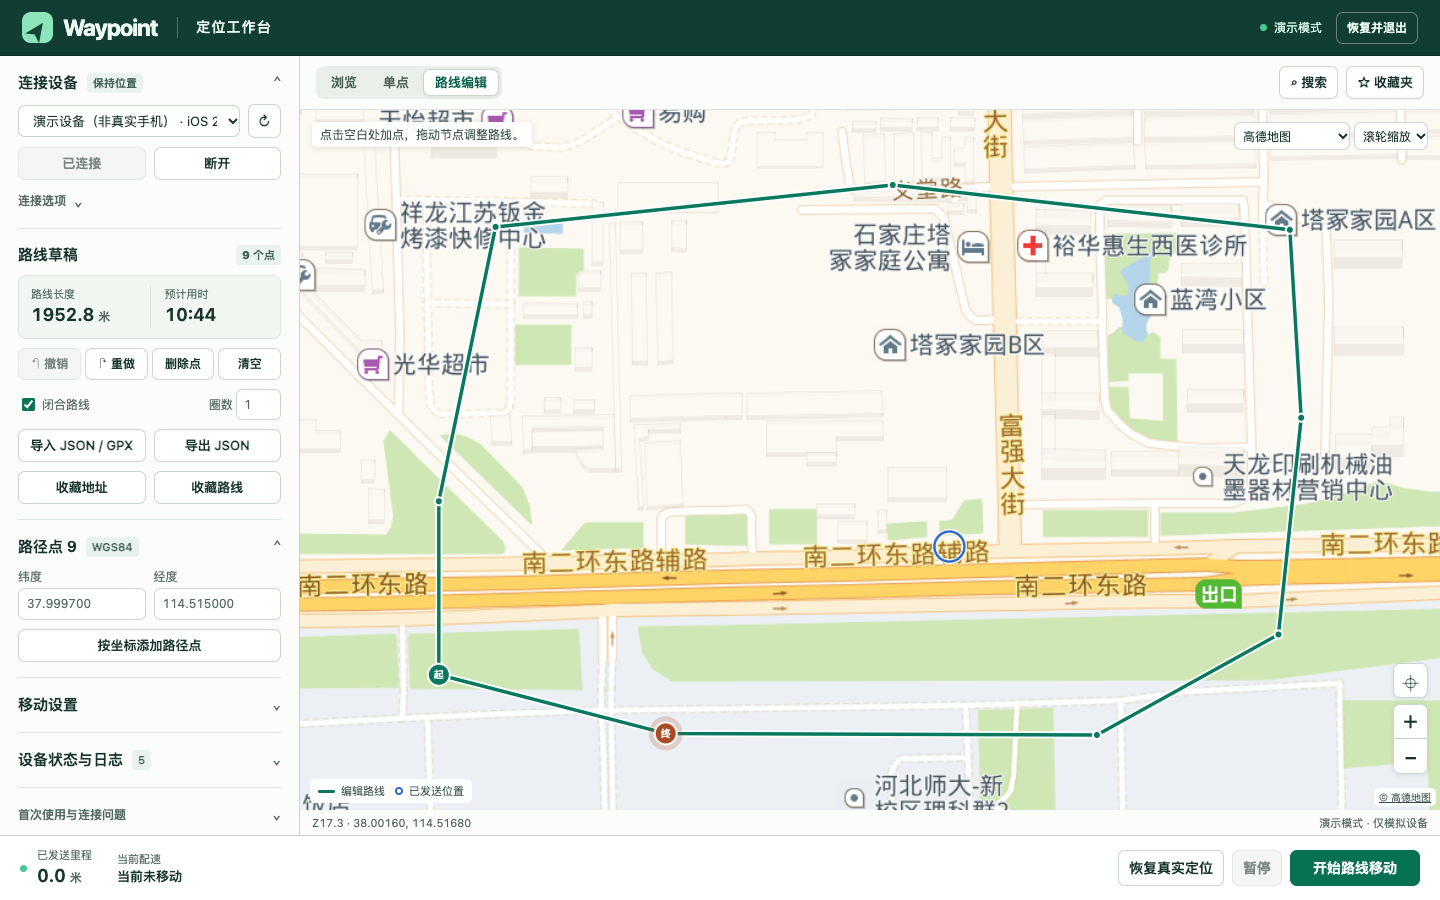
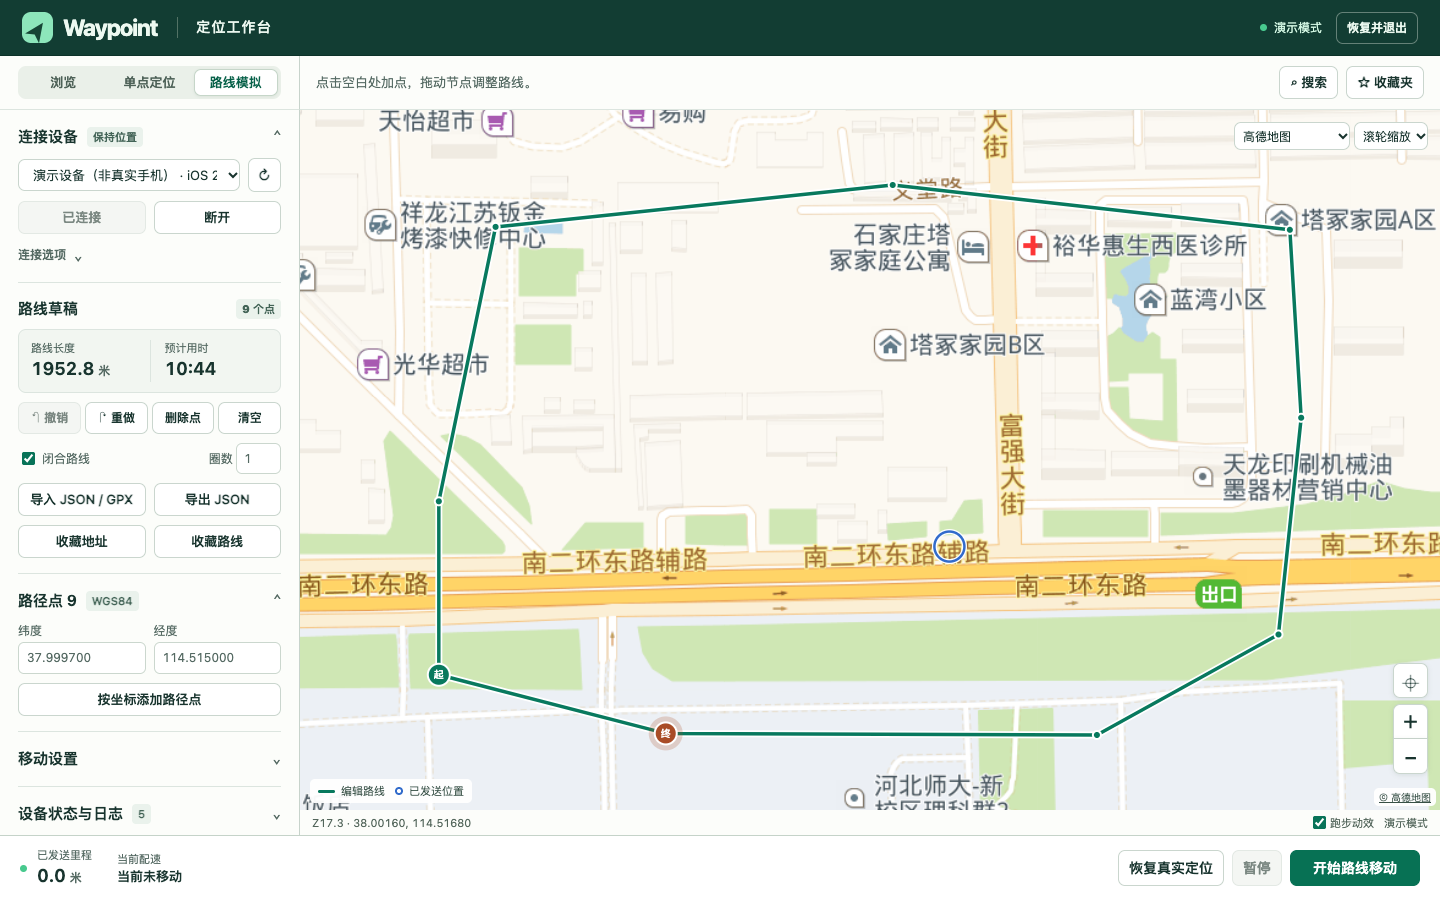
固定左侧模式切换，增加演示路线跑步动效

diff --git a/web/style.css b/web/style.css
@@ -38,8 +38,12 @@ small,.micro,.hint { color:var(--muted); font-size:12px }
 #connection-pill::before,.status-dot { content:''; display:inline-block; width:7px; height:7px; border-radius:50%; background:#afbab2 }
 #connection-pill.connected::before,.status-dot.ok { background:#48c98e }
 .status-dot.error { background:#c65834 }
-main { min-height:0; display:grid; grid-template-columns:300px minmax(0,1fr) }
-.sidebar { min-height:0; overflow:auto; overscroll-behavior:contain; padding:0 18px 12px; background:var(--paper); border-right:1px solid #c7d3cb }
+main { min-height:0; display:grid; grid-template-columns:300px minmax(0,1fr); grid-template-rows:auto minmax(0,1fr); grid-template-areas:"modes tools" "sidebar map" }
+.mode-bar { grid-area:modes; display:flex; align-items:center; padding:8px 18px; background:var(--paper); border-right:1px solid #c7d3cb; border-bottom:1px solid var(--line) }
+.mode-bar .modes { width:100% }
+.modes button { flex:1 }
+#edit-hint { color:var(--muted); font-size:13px }
+.sidebar { grid-area:sidebar; min-height:0; overflow:auto; overscroll-behavior:contain; padding:0 18px 12px; background:var(--paper); border-right:1px solid #c7d3cb }
 .section,.help { padding:15px 0; border-bottom:1px solid var(--line) }
 .section > * + *, .help ol { margin-top:9px }
 summary { cursor:pointer; display:flex; align-items:center; gap:6px; list-style:none; min-height:24px }
@@ -70,8 +74,8 @@ summary small, .count,#state-label { margin-left:3px; font-size:11px; font-weigh
 pre { white-space:pre-wrap; max-height:170px; overflow:auto; font-size:11px }
 .help { border:0 }
 .help ol { padding-left:16px }
-.workspace { min-width:0; min-height:0; display:grid; grid-template-rows:auto minmax(0,1fr) 25px; background:var(--paper) }
-.map-toolbar { min-height:54px; display:flex; align-items:center; justify-content:space-between; gap:6px; padding:8px 16px; border-bottom:1px solid var(--line) }
+.workspace { grid-area:map; min-width:0; min-height:0; display:grid; grid-template-rows:minmax(0,1fr) 25px; background:var(--paper) }
+.map-toolbar { grid-area:tools; background:var(--paper); min-height:54px; display:flex; align-items:center; justify-content:space-between; gap:6px; padding:8px 16px; border-bottom:1px solid var(--line) }
 .segmented { display:inline-flex; padding:3px; gap:2px; border-radius:8px; background:#eaf0e9 }
 .segmented button { border:1px solid transparent; background:transparent; min-height:27px; padding:3px 11px; font-size:13px; color:#4d6157 }
 .segmented button.active { background:white; border-color:#c6d6c9; color:#066048; box-shadow:0 1px 3px #18362a12 }
@@ -82,9 +86,12 @@ pre { white-space:pre-wrap; max-height:170px; overflow:auto; font-size:11px }
 #map[data-mode=point],#map[data-mode=route] { cursor:crosshair }
 #map.over-point { cursor:grab }
 #map.dragging { cursor:grabbing }
-.hint-chip,.map-settings,.navigation,.map-legend,.attribution,#map-loading { position:absolute }
-.hint-chip,.map-legend,.attribution,#map-loading { background:#fffffff2; color:#375046; font-size:12px; border-radius:5px; padding:4px 8px }
-.hint-chip { left:12px; top:12px; pointer-events:none; box-shadow:0 1px 6px #1a332a22 }
+.map-settings,.navigation,.map-legend,.attribution,#map-loading { position:absolute }
+.map-legend,.attribution,#map-loading { background:#fffffff2; color:#375046; font-size:12px; border-radius:5px; padding:4px 8px }
+#runner-marker { position:absolute; left:0; top:0; width:0; height:0; pointer-events:none }
+#runner-marker i { position:absolute; left:-4px; top:-4px; width:8px; height:8px; border-radius:50%; background:#1556b6; box-shadow:0 0 0 1.5px white }
+#runner-option { margin-left:auto; margin-right:10px; display:inline-flex; gap:4px; align-items:center; cursor:pointer }
+#runner-toggle { margin:0 }
 .map-settings { right:12px; top:12px; display:flex; align-items:center; gap:4px }
 .map-settings select { font-size:12px; padding:4px; min-height:28px; max-width:125px }
 #map-loading { right:12px; top:49px; font-size:11px }
@@ -123,21 +130,24 @@ pre { white-space:pre-wrap; max-height:170px; overflow:auto; font-size:11px }
 .favorite-load { color:var(--teal) }
 .pace-fields input { max-width:60px }
 #toast { position:fixed; bottom:75px; left:50%; transform:translateX(-50%); max-width:min(540px,90vw); padding:8px 14px; color:white; background:#193f33; border-radius:7px; z-index:5; pointer-events:none }
-@media(max-width:1080px) { main { grid-template-columns:272px minmax(0,1fr) } .sidebar { padding-inline:12px } .hint-chip { max-width:52% } }
+@media(max-width:1080px) { main { grid-template-columns:272px minmax(0,1fr) } .sidebar { padding-inline:12px } }
 @media(max-width:760px) {
   body { grid-template-rows:44px minmax(0,1fr) auto }
   .topbar { padding:0 10px; gap:8px } .brand { font-size:19px } .brand-icon { width:25px; height:25px }
   .topbar h1 { font-size:12px; padding-left:8px } .top-actions { gap:7px }
-  main { display:flex; flex-direction:column } .workspace { order:-1; flex:1; grid-template-rows:auto minmax(0,1fr) 21px }
-  .sidebar { height:29%; border:0; border-top:1px solid var(--line); padding-inline:12px }
+  main { position:relative; grid-template-columns:minmax(0,1fr) auto; grid-template-rows:auto minmax(0,1fr) 29%; grid-template-areas:"modes tools" "map map" "sidebar sidebar" }
+  .workspace { grid-template-rows:minmax(0,1fr) 24px }
+  .mode-bar { padding:4px 6px; border-right:0 } .mode-bar .modes { width:auto }
+  .sidebar { border:0; border-top:1px solid var(--line); padding-inline:12px }
   .section { padding:9px 0 } .map-toolbar { padding:4px 8px; min-height:41px }
   .tools { gap:4px } .tools button,.segmented button { padding-inline:7px; font-size:12px }
-  .hint-chip { top:45px; left:7px; max-width:80%; font-size:11px }
+  #edit-hint { position:absolute; left:7px; top:84px; z-index:1; pointer-events:none; background:#fffffff2; padding:2px 6px; border-radius:4px; font-size:11px }
+  main:has(.popup:not([hidden]), .favorites-panel:not([hidden])) #edit-hint { visibility:hidden }
   .map-settings { left:7px; right:auto; top:7px }
   #map-loading { top:auto; right:auto; left:7px; bottom:34px }
   .transport { padding:6px 8px; gap:6px; min-height:48px } .pace-readout { display:none }
   .play-actions { gap:4px } .play-actions button { font-size:12px; padding:4px 7px; min-height:31px }
   .play-actions .primary { min-width:0 } .play-status { gap:5px } .play-status strong { font-size:14px }
 }
-@media (max-height:530px) and (max-width:760px) { .sidebar { height:23% } .hint-chip { display:none } }
+@media (max-height:530px) and (max-width:760px) { main { grid-template-rows:auto minmax(0,1fr) 23% } #edit-hint { display:none } }
 @media (prefers-reduced-motion:reduce) { * { transition:none!important } }

diff --git a/web/app.js b/web/app.js
@@ -1,7 +1,7 @@
 'use strict';
 import {fromMapCoordinate} from './map-coordinates.mjs';
 import {EditorMap, History} from './editor-map.mjs';
-import {normaliseMotion, formatPace} from './motion.mjs';
+import {normaliseMotion, formatPace, RunningMarker} from './motion.mjs';
 const $ = id => document.getElementById(id);
 const TOKEN_KEY = 'waypoint-token';
 const fromFragment = new URLSearchParams(location.hash.slice(1)).get('token');
@@ -12,6 +12,13 @@ let activeAction=null, pollGeneration=0;
 let motionMode='pace', searchBusy=false, searchGeneration=0;
 let selectedLabel='', favoriteKind='address', favoriteTrash=false, favoriteItems=[], favoritePending=null, favoriteBusy=false, favoriteGeneration=0, previousDraft=null;
 const edits = new History();
+const runner = new RunningMarker($('runner-marker'));
+$('runner-toggle').checked = !matchMedia('(prefers-reduced-motion: reduce)').matches;
+function syncRunner() {
+  runner.update(status, $('runner-toggle').checked);
+  if (map.width) runner.place(map);
+}
+$('runner-toggle').onchange = syncRunner;
 let index = -1;
 const names = {disconnected:'未连接', connecting:'连接中', ready:'已就绪', holding:'保持位置', moving:'路线移动中', paused:'已暂停', error:'需要处理'};
 function toast(text) { $('toast').textContent = text; $('toast').hidden = false; clearTimeout(toast.timer); toast.timer = setTimeout(() => $('toast').hidden = true, 12000); }
@@ -24,7 +31,7 @@ async function api(action, body) {
 async function act(action, body = {}) {
   if (busy || exiting) return null;
   busy = true; activeAction=action; ++pollGeneration; renderControls();
-  try { const result = await api(action, body); if (result.state) renderStatus(result); return result; }
+  try { const result = await api(action, body); if (action === 'route') runner.stop(); if (result.state) renderStatus(result); return result; }
   catch (error) { toast(error.message); return null; }
   finally { activeAction=null; busy=false; await poll(); renderControls(); }
 }
@@ -56,7 +63,8 @@ function renderStatus(s) {
   $('sent-position').textContent = s.position ? s.position.map(v=>v.toFixed(5)).join(', ') : '尚未发送';
   document.body.classList.toggle('demo-mode',s.demo);
   document.querySelector('.compatibility').textContent = s.device ? 'iOS '+s.device.ios+' · 定位效果待确认' : 'iPhone · 定位效果待验证';
-  $('demo-banner').hidden = !s.demo;
+  $('demo-banner').hidden = $('runner-option').hidden = !s.demo;
+  syncRunner();
   $('connection-pill').textContent = s.demo ? '演示模式' : s.connected ? 'USB 已连接' : '未连接';
   $('connection-pill').classList.toggle('connected', s.connected);
   $('state-label').textContent = names[s.state] || s.state;
@@ -79,7 +87,7 @@ async function poll() {
     const snapshot = await api('status');
     if (generation === pollGeneration && !exiting) renderStatus(snapshot);
   }
-  catch (e) { if(generation !== pollGeneration)return; $('connection-pill').textContent='控制台离线'; $('status-text').textContent = token ? '无法连接本机控制程序。请确认启动窗口仍在运行。' : '请通过附带的启动程序打开控制台。'; }
+  catch (e) { if(generation !== pollGeneration)return; runner.stop(); $('runner-option').hidden=true; $('connection-pill').textContent='控制台离线'; $('status-text').textContent = token ? '无法连接本机控制程序。请确认启动窗口仍在运行。' : '请通过附带的启动程序打开控制台。'; }
 }
 function setCoordinates(p, label = '') {
   selected = p;
@@ -190,6 +198,7 @@ const map = new EditorMap($('map'), $('basemap'), {
     $('retry-tiles').hidden = !failed;
   },
   view(zoom, center) {
+    runner.place(map);
     $('map-view').textContent = 'Z' + zoom.toFixed(1) + '  ·  ' + center.map(v=>v.toFixed(5)).join(', ');
   }
 });
@@ -438,6 +447,6 @@ $('export').onclick=()=>{
     const a=document.createElement('a');a.href=URL.createObjectURL(blob);a.download='waypoint-route.json';a.click();setTimeout(()=>URL.revokeObjectURL(a.href),1000);
   }catch(error){toast(error.message);}
 };
-$('exit').onclick=async()=>{if(busy)return;busy=true;renderControls();try{await api('exit',{});exiting=true;$('status-title').textContent='程序已退出';$('status-text').textContent='停止模拟指令已发送。可关闭这个页面和启动窗口。';$('connection-pill').textContent='已退出';$('connection-pill').classList.remove('connected');}catch(error){toast('退出未完成：'+error.message);}finally{busy=false;renderControls();}};
+$('exit').onclick=async()=>{if(busy)return;busy=true;renderControls();try{await api('exit',{});exiting=true;runner.stop();$('runner-option').hidden=true;$('status-title').textContent='程序已退出';$('status-text').textContent='停止模拟指令已发送。可关闭这个页面和启动窗口。';$('connection-pill').textContent='已退出';$('connection-pill').classList.remove('connected');}catch(error){toast('退出未完成：'+error.message);}finally{busy=false;renderControls();}};
 window.addEventListener('beforeunload',e=>{if(status?.recovery_needed&&!exiting){e.preventDefault();e.returnValue='';}});
 setMode('browse'); $('refresh').click(); setInterval(poll,1000);

diff --git a/web/index.html b/web/index.html
@@ -11,6 +11,11 @@
   <div class="top-actions"><span id="connection-pill">未连接</span><button id="exit">恢复并退出</button></div>
 </header>
 <main>
+  <div class="mode-bar"><div class="segmented modes" role="group" aria-label="地图操作模式"><button id="mode-browse">浏览</button><button id="mode-point">单点定位</button><button id="mode-route">路线模拟</button></div></div>
+  <div class="map-toolbar">
+    <span id="edit-hint"></span>
+    <div class="tools"><button id="open-search">⌕ 搜索</button><button id="open-favorites">☆ 收藏夹</button></div>
+  </div>
   <aside class="sidebar" aria-label="设备与编辑器">
     <details class="device section" open><summary>连接设备 <span id="state-label">未连接</span></summary>
       <div class="device-picker"><select id="devices" aria-label="USB 设备"><option value="">正在查找设备…</option></select><button id="refresh" title="刷新 USB 设备" aria-label="刷新 USB 设备">↻</button></div>
@@ -48,14 +53,10 @@
     </details><details class="help"><summary>首次使用与连接问题</summary><ol><li>开启 iPhone“设置 → 隐私与安全性 → 开发者模式”，重启后确认。</li><li>保持手机解锁，用可传数据的数据线连接，选择“信任此电脑”。Windows 需先安装 Apple Devices。</li><li>刷新并选择设备，点击“准备并连接”。首次准备可能下载开发者组件。</li><li>选一个位置，点击“应用选中位置”，打开 iPhone 地图并回到当前位置，确认蓝点是否移动。</li><li>结束时点击“恢复真实定位”或“恢复并退出”。若恢复失败，重连后重试，必要时重启手机。</li></ol><p>这款工具发送开发者定位指令，不能验证步道乐跑是否接受记录，也不会修改系统步数。</p></details>
   </aside>
   <section class="workspace" aria-label="地图工作区">
-    <div class="map-toolbar">
-      <div class="segmented modes" aria-label="地图操作模式"><button id="mode-browse">浏览</button><button id="mode-point">单点</button><button id="mode-route">路线编辑</button></div>
-      <div class="tools"><button id="open-search">⌕ 搜索</button><button id="open-favorites">☆ 收藏夹</button></div>
-    </div>
     <div class="map-container">
       <canvas id="basemap" aria-hidden="true"></canvas>
       <canvas id="map" tabindex="0" aria-label="交互地图，可拖动平移，在单点或路线编辑模式下点击选点"></canvas>
-      <span id="edit-hint" class="hint-chip"></span>
+      <span id="runner-marker" hidden aria-hidden="true"><i></i></span>
       <div class="map-settings"><select id="map-source" aria-label="地图来源"><option value="amap">高德地图</option><option value="osm">OpenStreetMap</option></select>
       <select id="scroll-mode" aria-label="地图滚动方式" title="触控板双指平移，捏合缩放。鼠标可选滚轮缩放。"><option value="zoom">滚轮缩放</option><option value="pan">双指平移</option></select></div>
       <div id="map-loading"><span id="tile-message">正在加载底图…</span><button id="retry-tiles" hidden>重试</button></div>
@@ -75,7 +76,7 @@
   <small id="favorites-loading" hidden>正在读取收藏…</small><div id="favorites-list"></div>
 </section>
     </div>
-    <div class="map-status"><span id="map-view"></span><span id="demo-banner" hidden>演示模式 · 仅模拟设备</span></div>
+    <div class="map-status"><span id="map-view"></span><label id="runner-option" hidden title="预览地图标记的跑步起伏"><input type="checkbox" id="runner-toggle">跑步动效</label><span id="demo-banner" hidden>演示模式</span></div>
   </section>
 </main>
 <footer class="transport"><div class="play-status"><span id="status-dot" class="status-dot"></span><div><small>已发送里程</small><strong id="sent-distance">0 米</strong></div></div>

diff --git a/README.md b/README.md
@@ -11,8 +11,8 @@ USB 连接 iPhone，在电脑上搜索地名、选点、编辑并收藏地址和
 1. 从 GitHub Releases 下载发行包并解压整个文件夹，双击 `start-mac.command`，或打开附带的 `Waypoint.app`。也可克隆仓库后双击 `start-mac.command`。首次启动会创建独立 Python 环境并联网安装依赖，需要 Python 3.11+，推荐 3.13。
 2. 手机通过数据线连接 Mac，解锁并确认“信任此电脑”。开启“设置 → 隐私与安全性 → 开发者模式”，按提示重启。
 3. 浏览器自动打开后，点“刷新”，选择 iPhone，再点“准备并连接”。首次准备可能联网下载开发者组件。
-4. 切换到“单点”，点击地图选址，再点“应用编辑位置”。打开 iPhone 自带地图并定位到当前位置，确认蓝点是否移动。
-5. 切换“路线编辑”，沿道路依次点击，选择“按配速”或“按速度”，设置圈数，再点“开始路线移动”。暂停会保持最后发送位置。
+4. 切换到左上角的“单点定位”，点击地图选址，再点“应用编辑位置”。打开 iPhone 自带地图并定位到当前位置，确认蓝点是否移动。
+5. 切换左上角的“路线模拟”，沿道路依次点击，选择“按配速”或“按速度”，设置圈数，再点“开始路线移动”。暂停会保持最后发送位置。
 6. 结束时点击“恢复真实定位”或“恢复并退出”，并在手机地图确认恢复。
 
 如果 macOS 阻止直接打开，可在终端进入解压目录，执行：
@@ -34,6 +34,8 @@ python3 launch.py
 - 运行 `python3 build_release.py` 可重新构建发行包。发行包使用明确的文件白名单，不包含 `.venv`、收藏数据库、日志和设备配对信息。
 
 ## 路线与地图
+
+演示模式下，地图底部的“跑步动效”会让蓝点随行进方向轻微摆动。暂停会定格动效，到达终点后显示定位圆环。此开关只控制地图显示。
 
 - 点击地图上方的“搜索”，输入地名后按回车。结果显示名称和地址，点击后移动地图；不会自动添加路径点，也不会直接改变手机位置。
 
